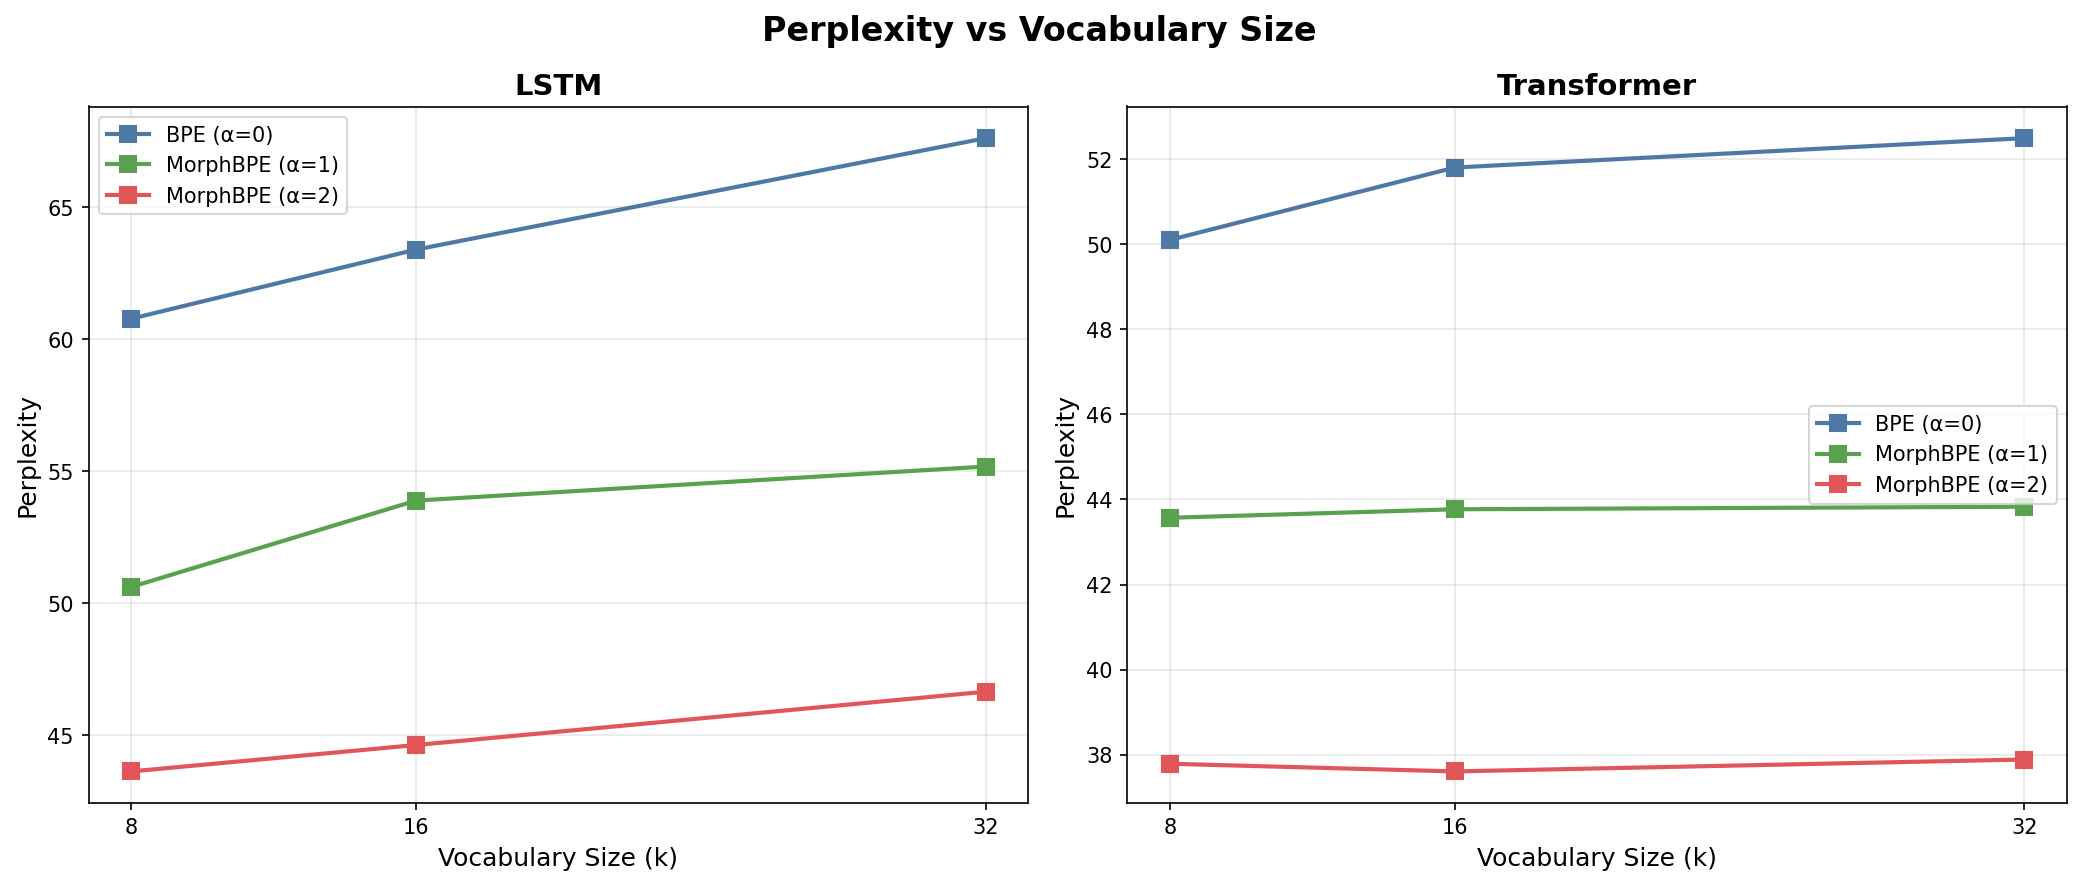
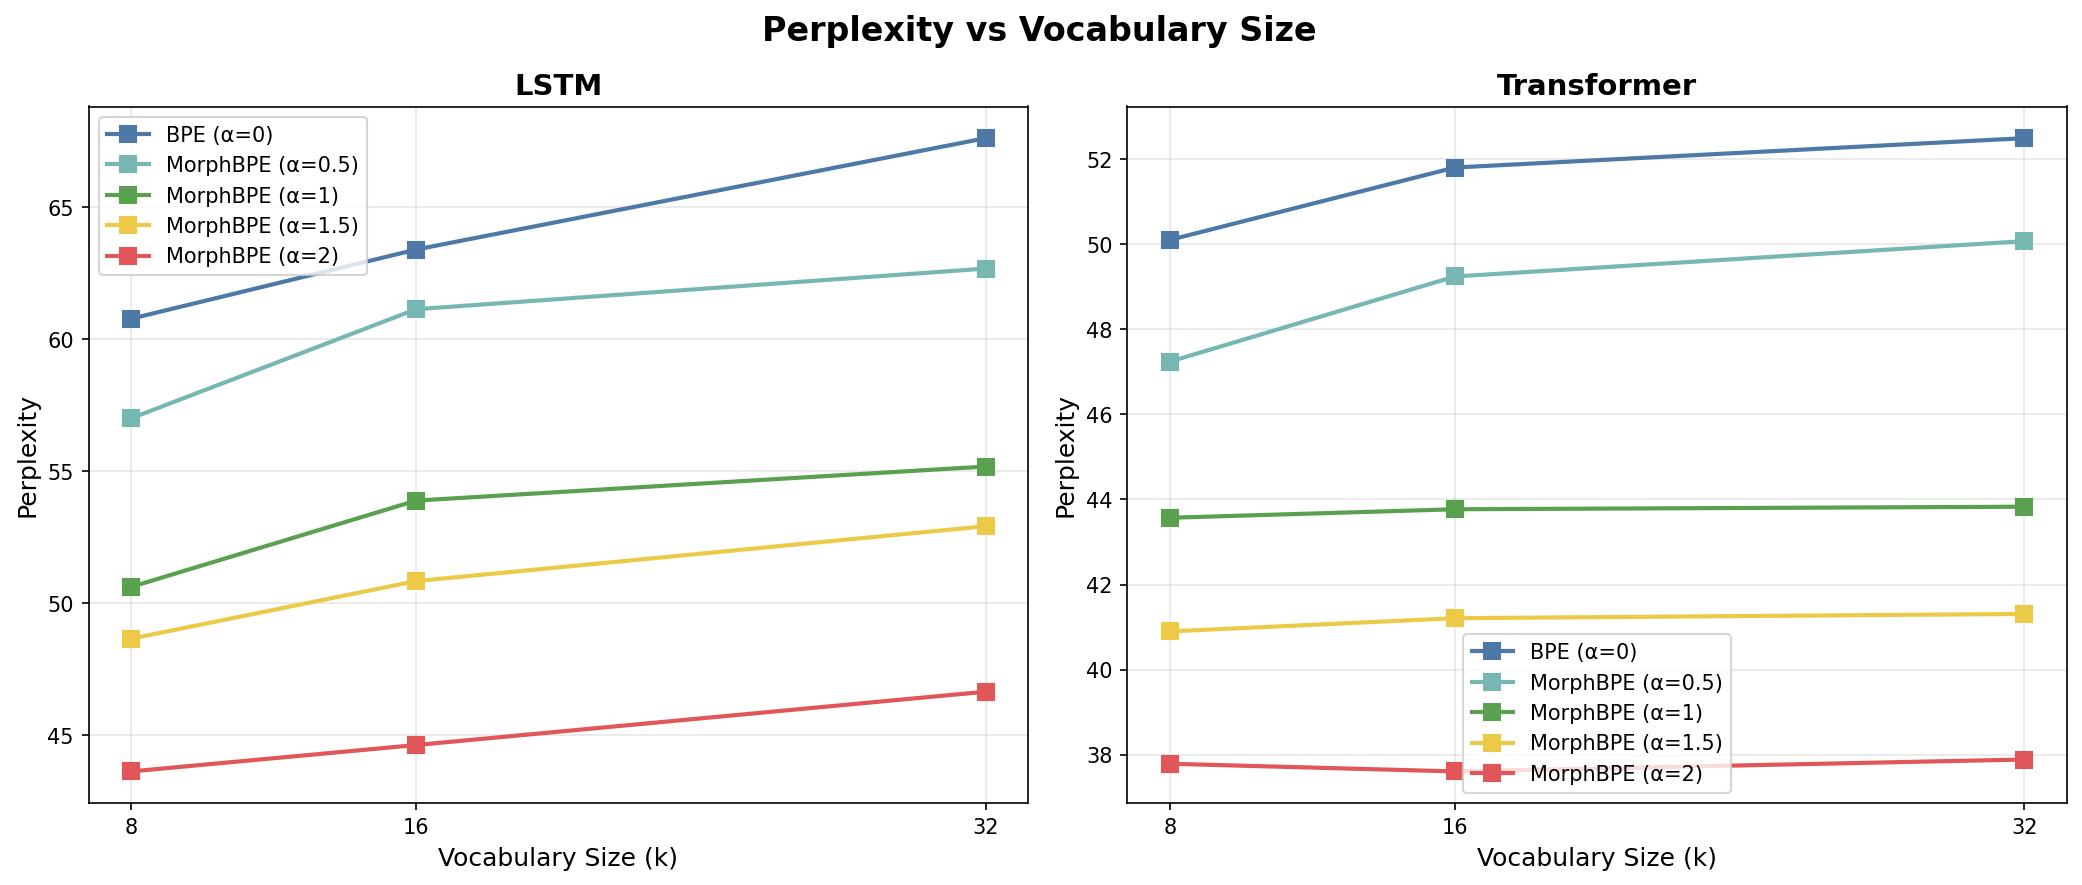
Fine-grained alpha sweep: add alpha=0.5 and 1.5 results for 8k/16k/32k
- Completed all 30 experiments (5 alphas x 3 vocabs x 2 models)
- CE decreases monotonically with alpha for 8k and 16k
- alpha=1.5 is a sweet spot: 8k alpha=1.5 Transformer beats 32k BPE
- Updated analysis script, plots, and README with full results

diff --git a/scripts/analyze_results.py b/scripts/analyze_results.py
@@ -9,11 +9,23 @@ import os
 RESULTS_FILE = "extrinsic_eval_8k_32k_results.txt"
 PLOTS_DIR = "plots"
 
-ALPHA_LABELS = {0.0: "BPE (α=0)", 1.0: "MorphBPE (α=1)", 2.0: "MorphBPE (α=2)"}
+ALPHA_LABELS = {
+    0.0: "BPE (α=0)",
+    0.5: "MorphBPE (α=0.5)",
+    1.0: "MorphBPE (α=1)",
+    1.5: "MorphBPE (α=1.5)",
+    2.0: "MorphBPE (α=2)",
+}
 VOCABS = [8000, 16000, 32000]
-ALPHAS = [0.0, 1.0, 2.0]
+ALPHAS = [0.0, 0.5, 1.0, 1.5, 2.0]
 MODELS = ["LSTM", "Transformer"]
-COLORS = {0.0: "#4e79a7", 1.0: "#59a14f", 2.0: "#e15759"}
+COLORS = {
+    0.0: "#4e79a7",
+    0.5: "#76b7b2",
+    1.0: "#59a14f",
+    1.5: "#edc948",
+    2.0: "#e15759",
+}
 
 
 def load_results():
@@ -91,7 +103,7 @@ def plot_ppl_by_vocab(results):
 
 
 def plot_alpha_comparison(results):
-    fig, axes = plt.subplots(1, 2, figsize=(14, 6))
+    fig, axes = plt.subplots(1, 2, figsize=(16, 6))
     x = np.arange(len(ALPHAS))
     width = 0.25
     for idx, metric in enumerate(["ce", "ppl"]):
@@ -117,9 +129,9 @@ def plot_alpha_comparison(results):
 
 
 def plot_model_comparison(results):
-    fig, ax = plt.subplots(figsize=(10, 6))
+    fig, ax = plt.subplots(figsize=(16, 8))
     x = np.arange(len(VOCABS))
-    width = 0.12
+    width = 0.08
     for ai, alpha in enumerate(ALPHAS):
         for mi, model in enumerate(MODELS):
             vals = [get_result(results, v, alpha, model, "ce") for v in VOCABS]
@@ -149,7 +161,9 @@ def print_summary(results):
     for model in MODELS:
         for vocab in VOCABS:
             bpe_ce = get_result(results, vocab, 0.0, model, "ce")
-            for alpha in [1.0, 2.0]:
+            for alpha in ALPHAS:
+                if alpha == 0.0:
+                    continue
                 ce = get_result(results, vocab, alpha, model, "ce")
                 if bpe_ce and ce:
                     reduction = (bpe_ce - ce) / bpe_ce * 100
@@ -169,6 +183,24 @@ def print_summary(results):
         ce = get_result(results, vocab, 2.0, "Transformer", "ce")
         if ce:
             print(f"  {vocab // 1000}k: CE={ce:.4f}")
+
+    print("\n3b. Fine-grained alpha sweep (Transformer CE):")
+    for vocab in VOCABS:
+        ces = []
+        for alpha in ALPHAS:
+            ce = get_result(results, vocab, alpha, "Transformer", "ce")
+            if ce:
+                ces.append(f"α={alpha}: {ce:.4f}")
+        print(f"  {vocab // 1000}k: {', '.join(ces)}")
+
+    print("\n3c. Fine-grained alpha sweep (LSTM CE):")
+    for vocab in VOCABS:
+        ces = []
+        for alpha in ALPHAS:
+            ce = get_result(results, vocab, alpha, "LSTM", "ce")
+            if ce:
+                ces.append(f"α={alpha}: {ce:.4f}")
+        print(f"  {vocab // 1000}k: {', '.join(ces)}")
 
     print("\n4. Best configuration:")
     best = min(results, key=lambda r: r["ce"])

diff --git a/scripts/extrinsic_eval_8k_32k.py b/scripts/extrinsic_eval_8k_32k.py
@@ -287,13 +287,19 @@ def main():
     configs = [
         # (vocab_size, alpha)
         (8000, 0.0),  # BPE baseline
+        (8000, 0.5),  # MorphBPE light penalty
         (8000, 1.0),  # MorphBPE block
+        (8000, 1.5),  # MorphBPE strong penalty
         (8000, 2.0),  # MorphBPE over-penalize
         (16000, 0.0),
+        (16000, 0.5),
         (16000, 1.0),
+        (16000, 1.5),
         (16000, 2.0),
         (32000, 0.0),
+        (32000, 0.5),
         (32000, 1.0),
+        (32000, 1.5),
         (32000, 2.0),
     ]
     models = ["LSTM", "Transformer"]

diff --git a/README.md b/README.md
@@ -95,7 +95,7 @@ or a heuristic fallback for environments without Morfeusz2.
 
 Over-penalization (`alpha=2.0`) reduces CE by an additional 1.6–3.1%.
 
-### Extrinsic Evaluation (vocab 8k–32k)
+### Extrinsic Evaluation (vocab 8k–32k, fine-grained alpha sweep)
 
 Corpus: Sejm speeches (8000 train / 500 test), seq_len=32, 3 epochs. See `plots/` for visualizations.
 
@@ -103,30 +103,44 @@ Corpus: Sejm speeches (8000 train / 500 test), seq_len=32, 3 epochs. See `plots/
 |-------|---|-------|----|-----|
 | 8k | 0.0 (BPE) | LSTM | 4.1073 | 60.78 |
 | 8k | 0.0 (BPE) | Transformer | 3.9140 | 50.10 |
+| 8k | 0.5 | LSTM | 4.0433 | 57.01 |
+| 8k | 0.5 | Transformer | 3.8552 | 47.24 |
 | 8k | 1.0 | LSTM | 3.9243 | 50.62 |
 | 8k | 1.0 | Transformer | 3.7743 | 43.57 |
+| 8k | 1.5 | LSTM | 3.8849 | 48.66 |
+| 8k | 1.5 | Transformer | 3.7112 | 40.90 |
 | 8k | 2.0 | LSTM | 3.7758 | 43.63 |
 | 8k | 2.0 | Transformer | 3.6319 | 37.79 |
 | 16k | 0.0 (BPE) | LSTM | 4.1494 | 63.40 |
 | 16k | 0.0 (BPE) | Transformer | 3.9473 | 51.80 |
+| 16k | 0.5 | LSTM | 4.1132 | 61.14 |
+| 16k | 0.5 | Transformer | 3.8966 | 49.24 |
 | 16k | 1.0 | LSTM | 3.9870 | 53.89 |
 | 16k | 1.0 | Transformer | 3.7789 | 43.77 |
+| 16k | 1.5 | LSTM | 3.9287 | 50.84 |
+| 16k | 1.5 | Transformer | 3.7188 | 41.21 |
 | 16k | 2.0 | LSTM | 3.7984 | 44.63 |
 | 16k | 2.0 | Transformer | **3.6272** | **37.61** |
 | 32k | 0.0 (BPE) | LSTM | 4.2140 | 67.62 |
 | 32k | 0.0 (BPE) | Transformer | 3.9605 | 52.49 |
+| 32k | 0.5 | LSTM | 4.1380 | 62.68 |
+| 32k | 0.5 | Transformer | 3.9135 | 50.07 |
 | 32k | 1.0 | LSTM | 4.0106 | 55.18 |
 | 32k | 1.0 | Transformer | 3.7803 | 43.83 |
+| 32k | 1.5 | LSTM | 3.9687 | 52.92 |
+| 32k | 1.5 | Transformer | 3.7210 | 41.31 |
 | 32k | 2.0 | LSTM | 3.8427 | 46.65 |
 | 32k | 2.0 | Transformer | 3.6347 | 37.89 |
 
 **Key findings:**
 
-- **Alpha ranking**: α=2.0 > α=1.0 > α=0.0 (BPE) consistently across all vocab sizes and models
-- **CE reduction**: α=1.0 reduces CE by 3.6–4.8% vs BPE; α=2.0 by 7.2–8.8%
-- **Transformer > LSTM**: 3.8–6.0% CE reduction across all configs
+- **Monotonic alpha improvement**: CE decreases monotonically with α for 8k and 16k across both models
+- **α=1.5 sweet spot**: 8k α=1.5 Transformer (CE=3.7112, PPL=40.90) beats 32k BPE Transformer (CE=3.9605, PPL=52.49) — 4x smaller vocab, 22% lower PPL
+- **CE reduction vs BPE**: α=0.5 → 1.2–1.8%; α=1.0 → 3.6–4.8%; α=1.5 → 5.2–6.0%; α=2.0 → 7.2–8.8%
+- **Transformer > LSTM**: 3.8–6.2% CE reduction across all configs
 - **Best config**: 16k α=2.0 Transformer (CE=3.6272, PPL=37.61)
 - **Vocab size**: 8k and 16k perform similarly at α=2.0; 32k slightly worse due to sparse coverage
+- **Diminishing returns at 32k**: CE gap between α=1.0 and α=1.5 shrinks for 32k LSTM (4.0106 → 3.9687 = 1.0%) vs 8k LSTM (3.9243 → 3.8849 = 1.0%), suggesting larger vocabs benefit less from intermediate alpha values
 
 ### Cost-Benefit Analysis
 
